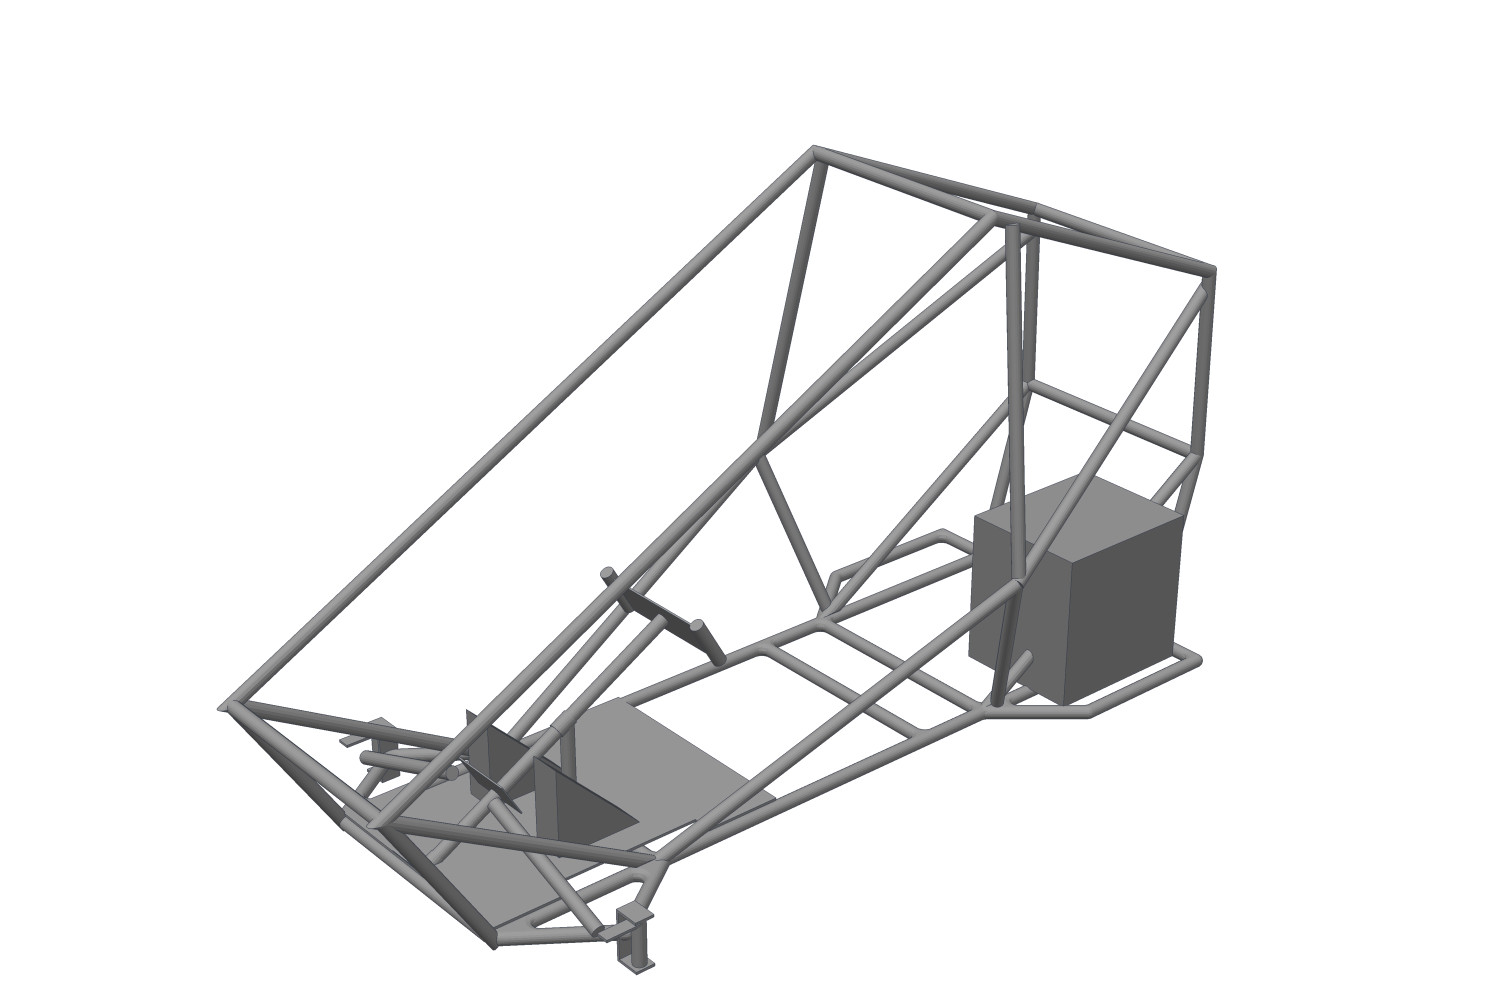
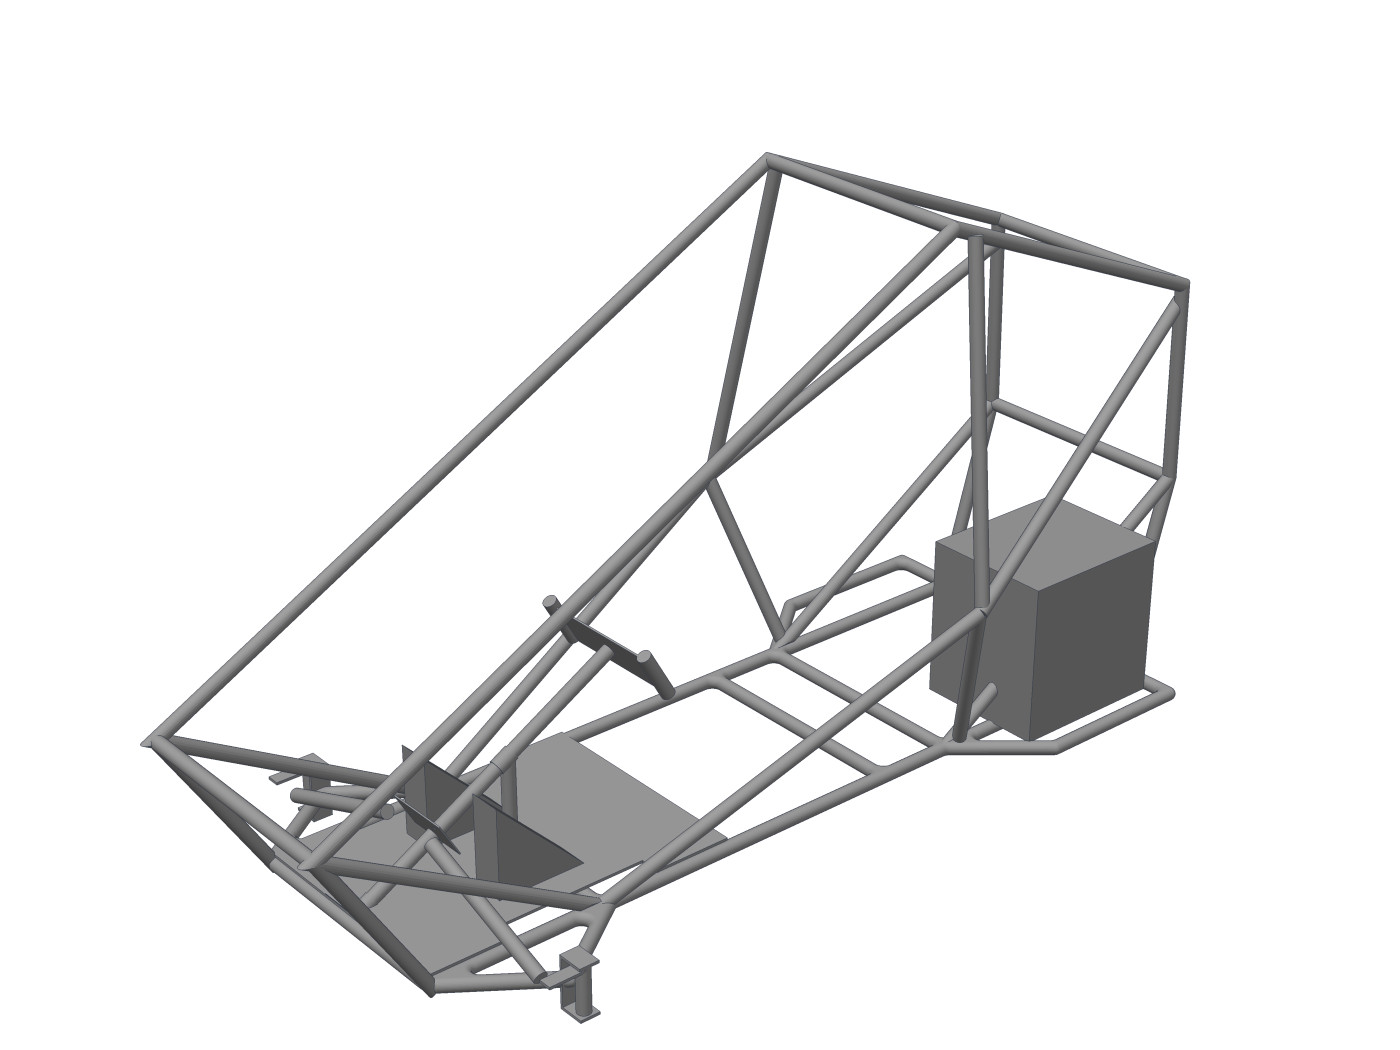
Put the real go-kart on its card, and stop claiming a wing it never had
Leon sent build photos and video. The cover is now the finished kart instead of
a CAD render, and a new "From CAD to kart" gallery pairs the CAD bare frame
with the real one mid-build, the seat and column fitted, and the welded floor
pan. A frame from the welding video sits alongside.

The photos also corrected the copy. The built kart has no rear wing, so the
card no longer says it does - the wing stays in the 3D viewer, which is the
CAD. The hoop and lower rails are bent, so "rather than a bent-tube chassis"
is gone, and "every bay closes into triangles" became "braced, not boxed".
The engine envelope now connects to the real chain-driven engine.

Changed region(s): [[0.4914, 0.124, 0.86, 0.806], [0.0921, 0.217, 0.5221, 0.992], [0.4607, 0.744, 0.4914, 0.775]]

diff --git a/index.html b/index.html
@@ -556,12 +556,12 @@
 
       <article class="card reveal card--go" data-cat="fab" id="p-gokart" data-tools="fusion welding printing assembly">
         <div class="ph ph--fab">
-          <img src="img/gokart/cover-cad.jpg" alt="CAD render of the go-kart — a fully triangulated round-tube space frame with a roll hoop over the driver, sheet floor pan, steering wheel, engine bay and a rear wing, on four wheels" style="position:absolute;inset:0;width:100%;height:100%;object-fit:cover" loading="lazy">
+          <img src="img/gokart/cover.jpg" alt="The finished go-kart in the shop — a welded round-tube frame with a roll cage, a plastic seat shell, a racing-style steering wheel, and an engine at the back driving the rear axle by chain, on four knobby tyres" style="position:absolute;inset:0;width:100%;height:100%;object-fit:cover" loading="lazy">
           <span class="tag">Fabrication</span>
         </div>
         <div class="card-body">
           <h3>Welded Go-Kart</h3>
-          <p>A drivable go-kart for a high-school engineering fabrication class: lead designer/CAD, then hand-bent, cut, and welded the steel tube-and-sheet chassis before road-testing it with the team. It came out as a fully triangulated space frame in 1&nbsp;in round tube — roll hoop over the driver, 55&nbsp;in wheelbase, rear wing on two uprights. <strong>Strip the wheels and wing off in the live 3D model.</strong></p>
+          <p>A drivable go-kart for a high-school engineering fabrication class: lead designer/CAD, then hand-bent, cut, and welded the steel tube-and-sheet chassis before road-testing it with the team. It came out as a braced space frame in 1&nbsp;in round tube, with a roll hoop over the driver and an engine at the back driving the rear axle by chain. <strong>See it go from CAD to a running kart in the details.</strong></p>
           <div class="tools" data-clamp><span class="tool">Autodesk Fusion</span><span class="tool">Welding</span><span class="tool">3D printing (FDM)</span><span class="tool">Assembly</span><button type="button" class="tools-more" hidden aria-label="Show all skills"></button></div>
           <a class="card-link" href="#" data-study="gokart">Details <span class="arrow">→</span></a>
         </div>
@@ -1628,7 +1628,7 @@
     <h3 id="csKartTitle" style="font-size:1.6rem;margin-top:6px">Welded Go-Kart</h3>
     <p class="cs-meta">High-school engineering fabrication class · team project · Role: lead designer/CAD &amp; fabricator</p>
     <p>The brief was to design something that actually drives, build it, and then drive it. I did the design and the CAD, and then the part that teaches you the most: cutting, bending and welding the steel myself, finding out where the model had been optimistic, and sorting it out on the bench.</p>
-    <p>What came out is a fully triangulated space frame rather than a bent-tube kart chassis — 1&nbsp;in round tube braced in every plane, a hoop over the driver, a sheet floor pan closing the bottom, and a rear wing carried on two uprights behind the back axle. It's 1.93&nbsp;m long on a 55&nbsp;in wheelbase.</p>
+    <p>What came out is a braced space frame in 1&nbsp;in round tube — the hoop and lower rails bent to shape, the bracing cut and welded between them — with a roll hoop over the driver, a sheet floor pan, and an engine at the back driving the rear axle by chain. The design is 1.93&nbsp;m long on a 55&nbsp;in wheelbase.</p>
     <div class="cs-stats">
       <div class="cs-stat"><div class="n">1.93 m</div><div class="l">long · 1.13 m to the top of the hoop</div></div>
       <div class="cs-stat"><div class="n">55 in</div><div class="l">wheelbase on 10 in wheels</div></div>
@@ -1650,15 +1650,23 @@
     </div>
 
     <h4>How it’s built</h4>
-    <div class="cs-sub"><h5>Triangulated everywhere</h5><p>Every bay in the frame closes into triangles — the long front section, both sides of the cockpit, and the hoop behind the driver all carry diagonals. Round tube carries load well along its axis and poorly in bending, so a frame like this earns its stiffness from geometry rather than from wall thickness.</p></div>
-    <div class="cs-sub"><h5>Built around the parts that had to be bought</h5><p>The engine and the pedals appear in the CAD as reserved envelopes rather than modelled hardware — the engine is literally a 305&nbsp;×&nbsp;305&nbsp;×&nbsp;254&nbsp;mm block named <em>Engine Perimeter</em>, sitting behind the driver. At layout time the useful question isn’t what the engine looks like, it’s whether it fits, what has to clear it, and where the frame has to pick it up.</p></div>
-    <div class="cs-sub"><h5>A floor, and four wheels off the shelf</h5><p>A 610&nbsp;×&nbsp;457&nbsp;mm sheet pan closes the bottom of the frame under the driver’s feet, with the two pedal plates mounted to it. All four corners run the same 10&nbsp;in × 5.5&nbsp;in wheel, and the steering is a raked column straight to a wheel in the cockpit.</p></div>
+    <div class="cs-sub"><h5>Braced, not boxed</h5><p>The cage and the long front section carry diagonals rather than being left as open boxes. Round tube carries load well along its axis and poorly in bending, so a frame like this earns its stiffness from geometry rather than from wall thickness.</p></div>
+    <div class="cs-sub"><h5>Built around the parts that had to be bought</h5><p>The engine and the pedals appear in the CAD as reserved envelopes rather than modelled hardware — the engine is literally a 305&nbsp;×&nbsp;305&nbsp;×&nbsp;254&nbsp;mm block named <em>Engine Perimeter</em>, sitting behind the driver. At layout time the useful question isn’t what the engine looks like, it’s whether it fits, what has to clear it, and where the frame has to pick it up. On the finished kart, that envelope holds the real engine, driving the rear axle through a chain.</p></div>
+    <div class="cs-sub"><h5>A floor, and four wheels off the shelf</h5><p>A 610&nbsp;×&nbsp;457&nbsp;mm sheet pan closes the bottom of the frame under the driver’s feet, with the two pedal plates mounted to it. It rolls on four pneumatic wheels, and the steering is a raked column straight to a racing-style wheel in the cockpit.</p></div>
     <div class="cs-sub"><h5>Cut, fitted and welded by hand</h5><p>The frame is one welded assembly, so every tube had to be cut to the right length and angle for its joints to close before anything could be welded. Doing that by hand — measuring off the model, cutting, offering it up, adjusting — is where a design meets the real material, and it’s the reason this project sticks with me more than a purely digital one would.</p></div>
 
-    <figure>
-      <img src="img/gokart/cad-frame.jpg" alt="The go-kart CAD with wheels and rear wing hidden, showing the bare welded tube frame, sheet floor pan, pedal plates and the block that reserves space for the engine" loading="lazy">
-      <figcaption>Wheels and wing hidden, so the structure is all that’s left: the triangulated tube frame, the sheet floor pan with its pedal plates, and the block reserving space for the engine.</figcaption>
+    <figure style="max-width:340px;margin-left:auto;margin-right:auto">
+      <img src="img/gokart/welding.jpg" alt="Welding the go-kart frame on a welding table — the arc glowing on the welder's helmet, sparks off the joint" loading="lazy">
+      <figcaption>Welding the frame on the bench.</figcaption>
     </figure>
+
+    <h4>From CAD to kart</h4>
+    <div class="cs-gallery" style="grid-template-columns:repeat(2,1fr)">
+      <figure><img src="img/gokart/cad-frame.jpg" alt="The go-kart CAD with wheels and rear wing hidden, showing the bare tube frame, sheet floor pan, pedal plates and the block reserving space for the engine" loading="lazy"><figcaption>CAD: the bare frame, with the block that reserves space for the engine.</figcaption></figure>
+      <figure><img src="img/gokart/frame-bare.jpg" alt="The real frame early in the build — the bent roll hoop and lower rails tacked together, with loose tube on the floor beside it" loading="lazy"><figcaption>Early build: the bent hoop and lower rails, with loose tube waiting to be cut and fitted.</figcaption></figure>
+      <figure><img src="img/gokart/frame-seat.jpg" alt="The frame with its sheet floor pan, a plastic seat shell and the steering column fitted" loading="lazy"><figcaption>The frame with the floor pan, seat and steering column fitted.</figcaption></figure>
+      <figure><img src="img/gokart/welds.jpg" alt="Close-up of the steering column and the sheet floor pan welded into the tube frame" loading="lazy"><figcaption>Close-up: the steering column and the sheet floor pan, welded into the frame.</figcaption></figure>
+    </div>
 
     <h4>Skills &amp; tools</h4>
     <div class="cs-skills"><span>Autodesk Fusion</span><span>Welding</span><span>3D printing (FDM)</span><span>Assembly</span></div>
